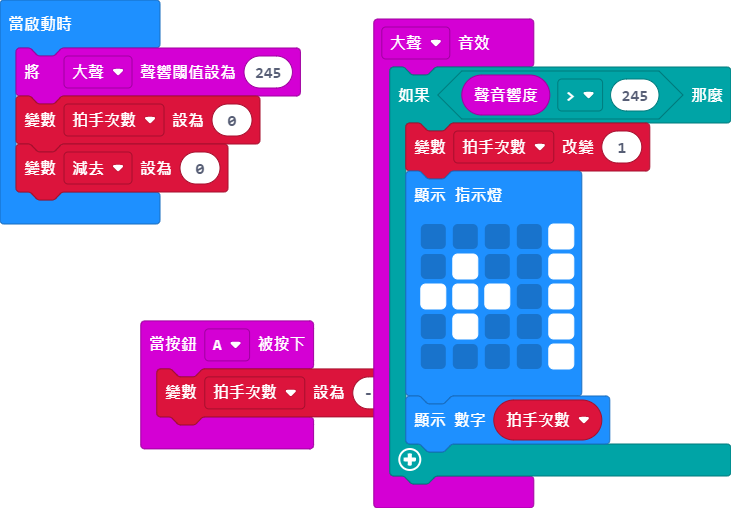
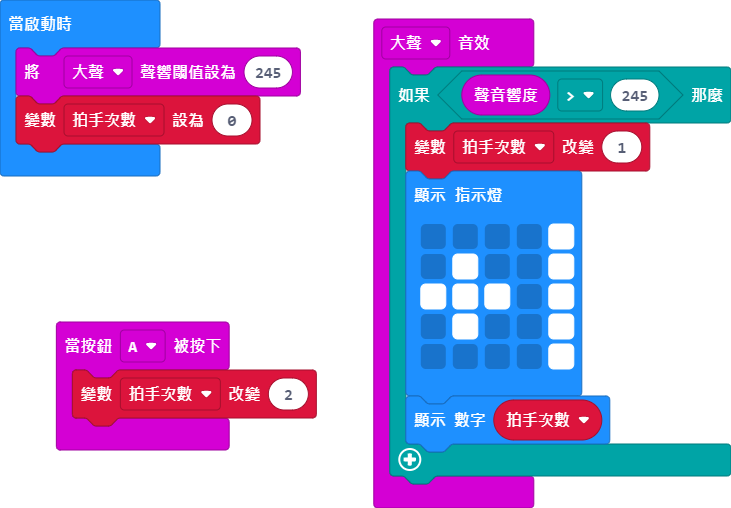
更新 main.blocks, main.ts

Changed region(s): [[0.0602, 0.6201, 0.5116, 0.8858], [0.0, 0.2657, 0.3311, 0.4429]]

diff --git a/main.ts b/main.ts
@@ -1,5 +1,5 @@
 input.onButtonPressed(Button.A, function () {
-    拍手次數 = -1
+    拍手次數 += 2
 })
 input.onSound(DetectedSound.Loud, function () {
     if (input.soundLevel() > 245) {
@@ -17,4 +17,3 @@ input.onSound(DetectedSound.Loud, function () {
 let 拍手次數 = 0
 input.setSoundThreshold(SoundThreshold.Loud, 245)
 拍手次數 = 0
-let 減去 = 0
